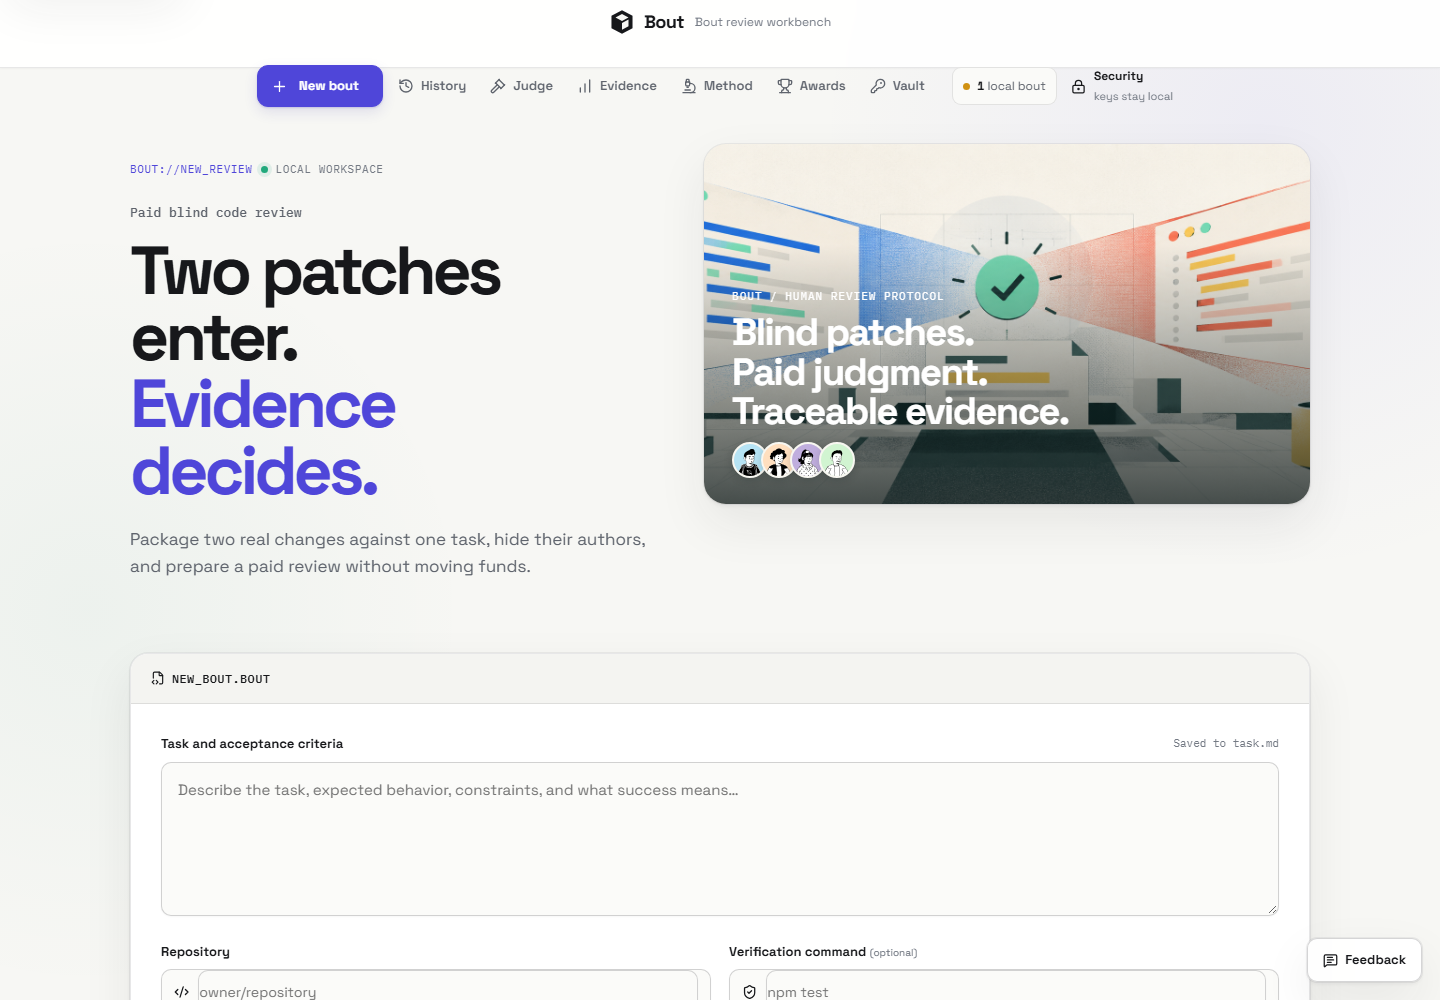
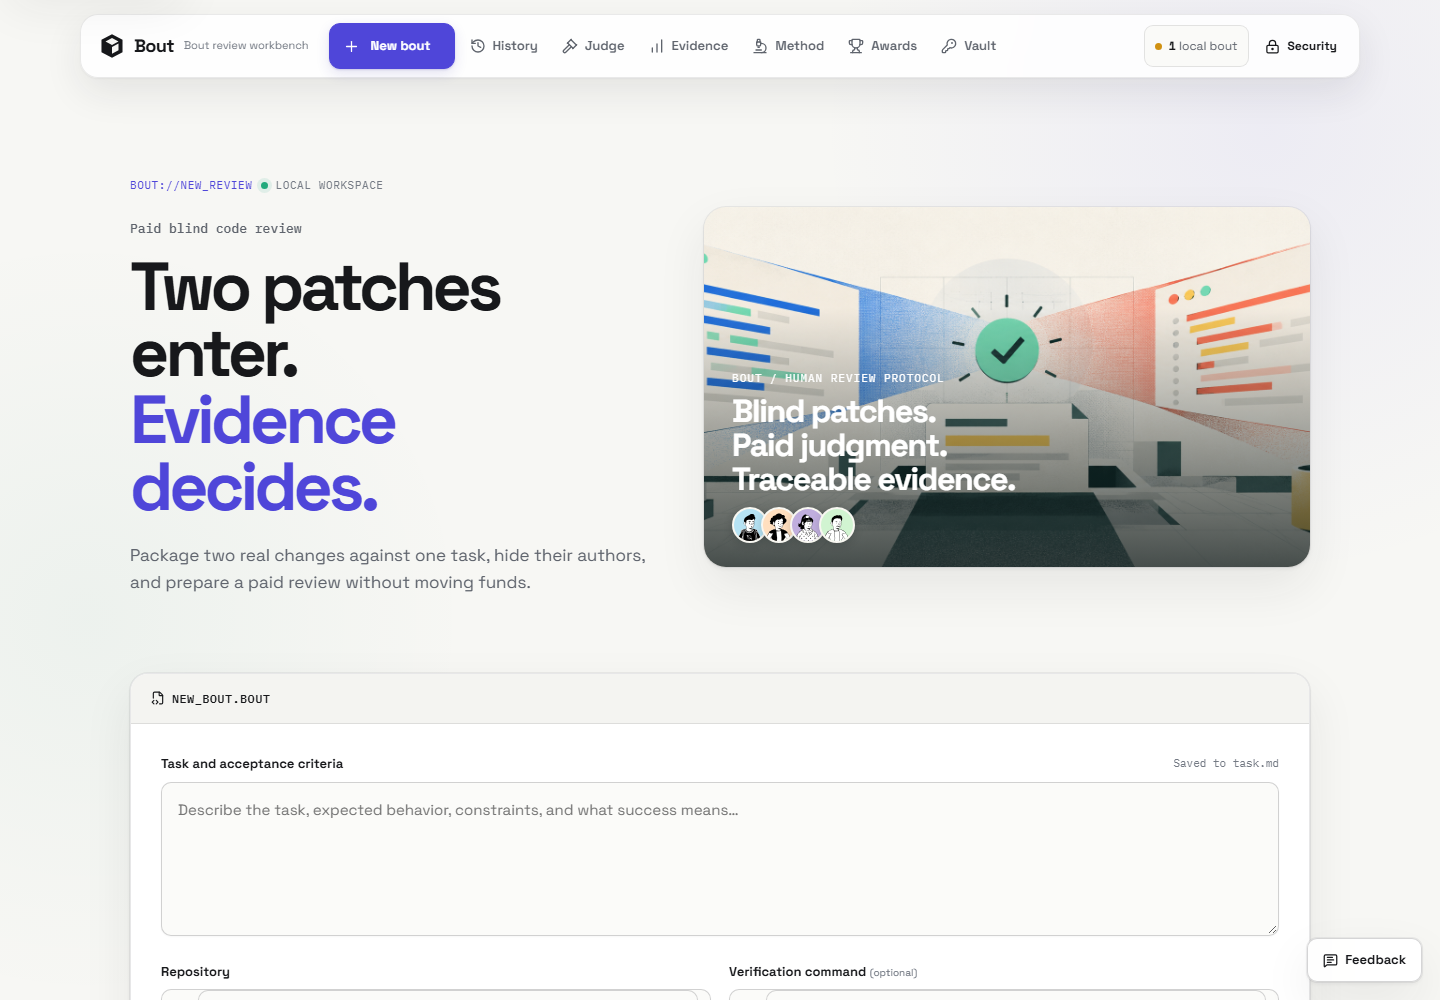
fix(web): align hero and float navigation

diff --git a/web/src/clarity-theme.css b/web/src/clarity-theme.css
@@ -66,22 +66,29 @@ select:focus-visible {
 }
 
 .sidebar.system-header {
-  height: 68px;
-  padding: 0 max(18px, calc((100vw - 1440px) / 2));
+  position: fixed;
+  inset: 14px 16px auto;
+  width: min(1280px, calc(100% - 32px));
+  margin-inline: auto;
+  height: 64px;
+  padding: 8px 10px;
   display: flex;
+  flex-direction: row;
   align-items: center;
-  gap: 20px;
-  background: rgba(255, 255, 255, 0.9);
-  border: 0;
-  border-bottom: 1px solid var(--line);
-  box-shadow: 0 1px 2px rgba(23, 24, 27, 0.035);
-  backdrop-filter: blur(18px) saturate(1.15);
+  gap: 12px;
+  background: rgba(255, 255, 255, 0.86);
+  border: 1px solid rgba(23, 24, 27, 0.09);
+  border-radius: 18px;
+  box-shadow: 0 1px 2px rgba(23, 24, 27, 0.04), 0 14px 38px rgba(36, 37, 41, 0.09);
+  backdrop-filter: blur(22px) saturate(1.18);
+  transform: none;
 }
 
 .sidebar-head.system-titlebar {
-  min-width: 222px;
-  min-height: 44px;
-  padding: 0;
+  min-width: 194px;
+  min-height: 46px;
+  padding: 0 8px;
+  flex: 0 0 auto;
   gap: 10px;
   color: var(--ink);
   background: transparent;
@@ -112,7 +119,7 @@ select:focus-visible {
 .system-caption {
   color: var(--quiet);
   font-family: "Space Grotesk Variable", sans-serif;
-  font-size: 12px;
+  font-size: 11px;
   letter-spacing: 0;
 }
 
@@ -126,7 +133,7 @@ select:focus-visible {
 
 .system-toolbar {
   min-width: 0;
-  min-height: 44px;
+  min-height: 46px;
   padding: 0;
   flex: 1;
   align-items: center;
@@ -136,7 +143,7 @@ select:focus-visible {
 
 .new-bout-button {
   min-width: 118px;
-  min-height: 42px;
+  min-height: 46px;
   padding: 0 13px;
   border: 1px solid var(--accent);
   border-radius: 11px;
@@ -160,7 +167,7 @@ select:focus-visible {
 }
 
 .sidebar-nav a {
-  min-height: 42px;
+  min-height: 44px;
   padding: 0 11px;
   gap: 7px;
   color: var(--muted);
@@ -189,7 +196,7 @@ select:focus-visible {
 
 .workspace-pulse {
   min-width: auto;
-  min-height: 38px;
+  min-height: 42px;
   padding: 0 10px;
   color: var(--muted);
   border: 1px solid var(--line);
@@ -200,8 +207,8 @@ select:focus-visible {
 
 .profile-row {
   min-width: auto;
-  min-height: 40px;
-  padding: 0 10px;
+  min-height: 42px;
+  padding: 0 12px;
   gap: 8px;
   border: 0;
   border-radius: 10px;
@@ -213,17 +220,23 @@ select:focus-visible {
   background: #f1f2ee;
 }
 
+.profile-row > span {
+  display: flex;
+  align-items: center;
+}
+
 .profile-row strong {
   font-size: 12px;
 }
 
 .profile-row small {
+  display: none;
   color: var(--quiet);
   font-size: 11px;
 }
 
 .main-canvas {
-  padding-top: 68px;
+  padding-top: 92px;
   overflow: clip;
   background:
     radial-gradient(circle at 88% 8%, rgba(100, 88, 237, 0.07), transparent 28rem),
@@ -240,11 +253,12 @@ select:focus-visible {
 
 .home-page {
   width: min(1180px, calc(100% - 48px));
-  min-height: calc(100dvh - 68px);
-  padding: 76px 0 104px;
+  min-height: calc(100dvh - 92px);
+  padding: 68px 0 104px;
   grid-template-columns: minmax(0, 0.92fr) minmax(430px, 1.08fr);
   grid-template-rows: auto auto auto;
-  gap: 54px 58px;
+  align-items: center;
+  gap: 58px 58px;
 }
 
 .hero-copy {
@@ -304,6 +318,7 @@ select:focus-visible {
 .project-cover {
   grid-column: 2;
   grid-row: 1;
+  align-self: center;
   height: 360px;
   margin: 0;
   border: 0;
@@ -316,10 +331,14 @@ select:focus-visible {
   background: linear-gradient(0deg, rgba(15, 27, 28, 0.76), rgba(15, 27, 28, 0.02) 72%);
 }
 
+.project-cover > img {
+  object-position: center 48%;
+}
+
 .project-cover figcaption {
-  inset: auto 28px 26px;
-  max-width: 480px;
-  gap: 10px;
+  inset: auto 28px 24px;
+  max-width: 410px;
+  gap: 9px;
 }
 
 .cover-kicker {
@@ -328,10 +347,14 @@ select:focus-visible {
 }
 
 .project-cover figcaption > strong {
-  max-width: 430px;
-  font-size: clamp(24px, 2.7vw, 38px);
-  line-height: 1.04;
+  max-width: 390px;
+  font-size: clamp(24px, 2.25vw, 32px);
+  line-height: 1.07;
   letter-spacing: -0.04em;
+}
+
+.cover-cast {
+  margin-top: 2px;
 }
 
 .cover-cast img {
@@ -976,13 +999,17 @@ select:focus-visible {
 
 @media (max-width: 820px) {
   .sidebar.system-header {
-    height: 60px;
-    padding-inline: 16px;
+    inset: 10px 10px auto;
+    width: calc(100% - 20px);
+    height: 56px;
+    padding: 6px 8px 6px 12px;
+    border-radius: 14px;
   }
 
   .sidebar-head.system-titlebar {
     width: 100%;
-    min-height: 44px;
+    min-height: 42px;
+    padding: 0;
   }
 
   .mobile-menu {
@@ -995,13 +1022,15 @@ select:focus-visible {
   }
 
   .system-toolbar {
-    top: 60px;
-    width: min(340px, calc(100% - 24px));
-    height: calc(100dvh - 60px);
+    top: 65px;
+    left: -1px;
+    width: min(340px, calc(100vw - 20px));
+    height: calc(100dvh - 86px);
     padding: 14px;
     gap: 7px;
     background: rgba(255, 255, 255, 0.98);
-    border-right: 1px solid var(--line);
+    border: 1px solid var(--line);
+    border-radius: 14px;
     box-shadow: 14px 0 40px rgba(23, 24, 27, 0.14);
   }
 
@@ -1021,18 +1050,18 @@ select:focus-visible {
   }
 
   .main-canvas {
-    padding-top: 60px;
+    padding-top: 76px;
   }
 
   .home-page {
     width: min(100% - 32px, 720px);
-    min-height: calc(100dvh - 60px);
-    padding: 46px 0 82px;
+    min-height: calc(100dvh - 76px);
+    padding: 50px 0 82px;
   }
 
   .interior-page {
     width: min(100% - 32px, 720px);
-    min-height: calc(100dvh - 60px);
+    min-height: calc(100dvh - 76px);
     margin: 0 auto;
     padding: 48px 0 76px;
   }
